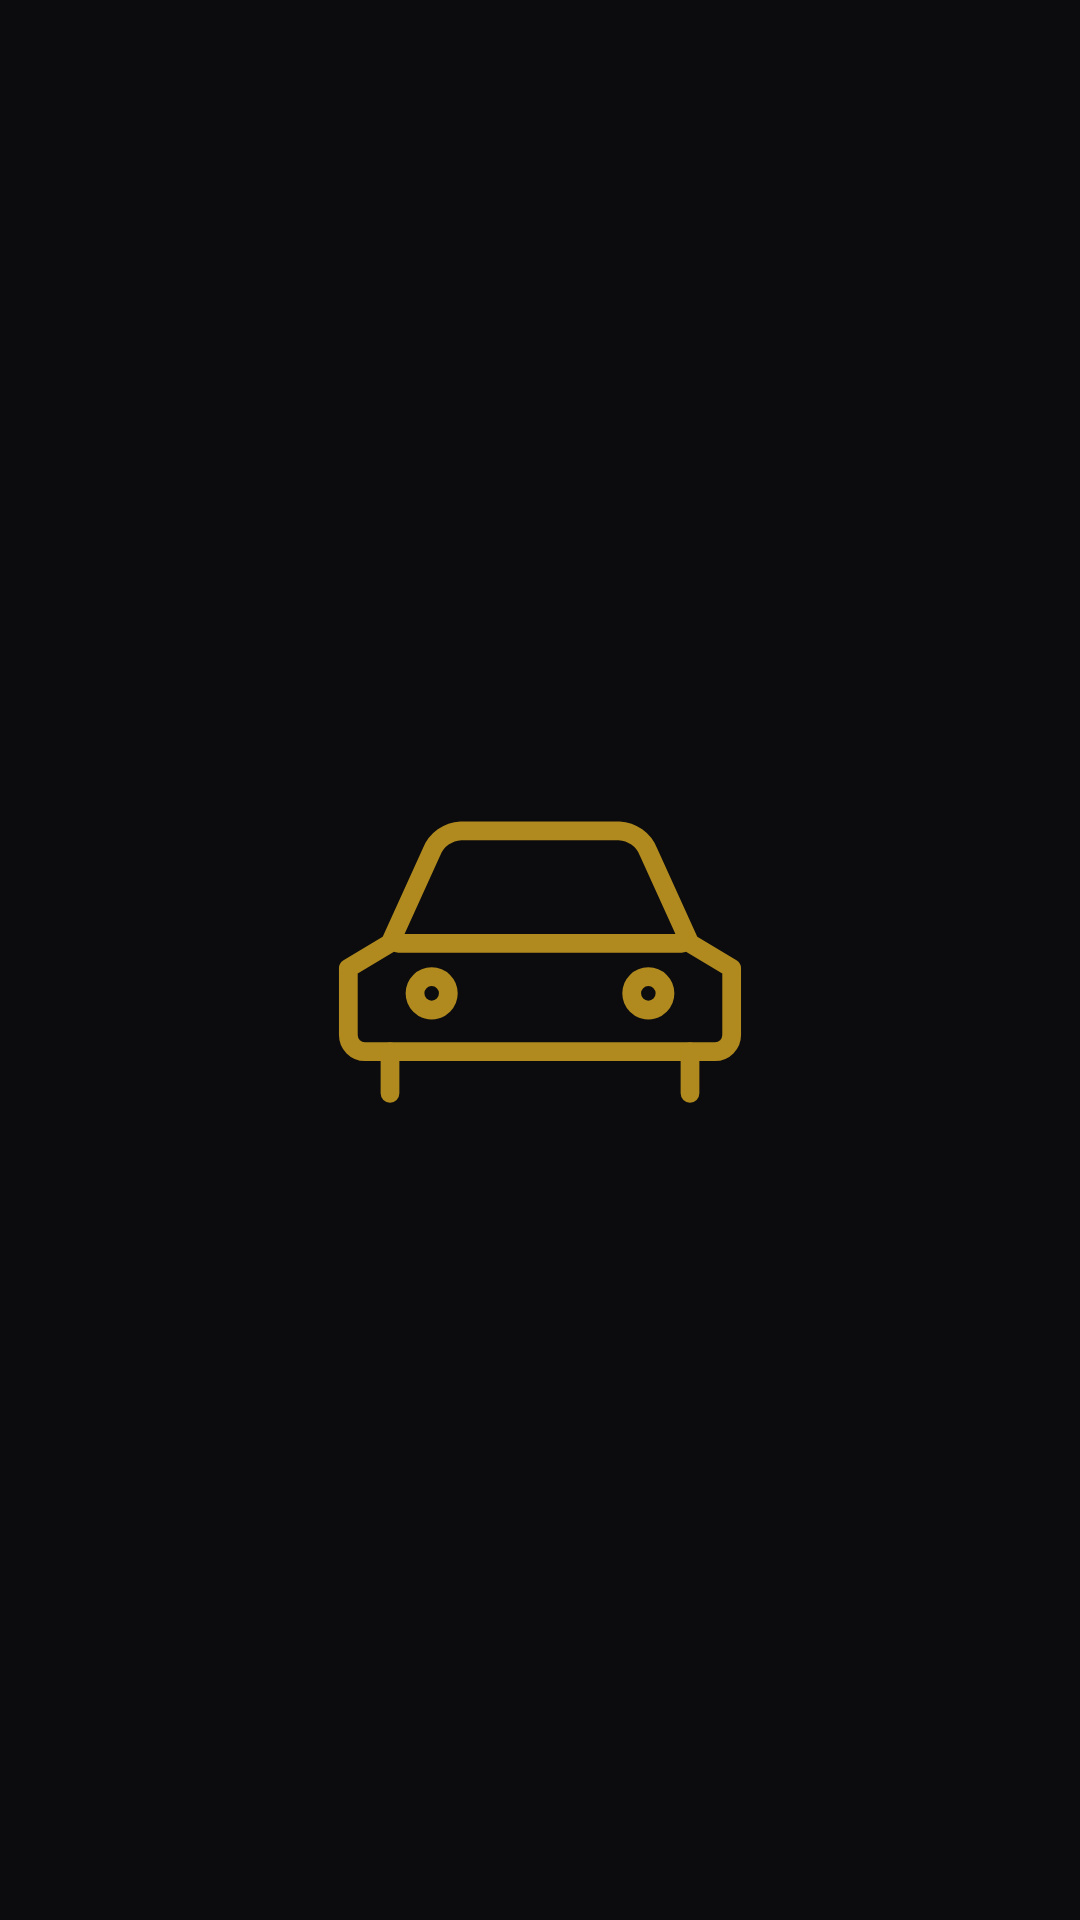
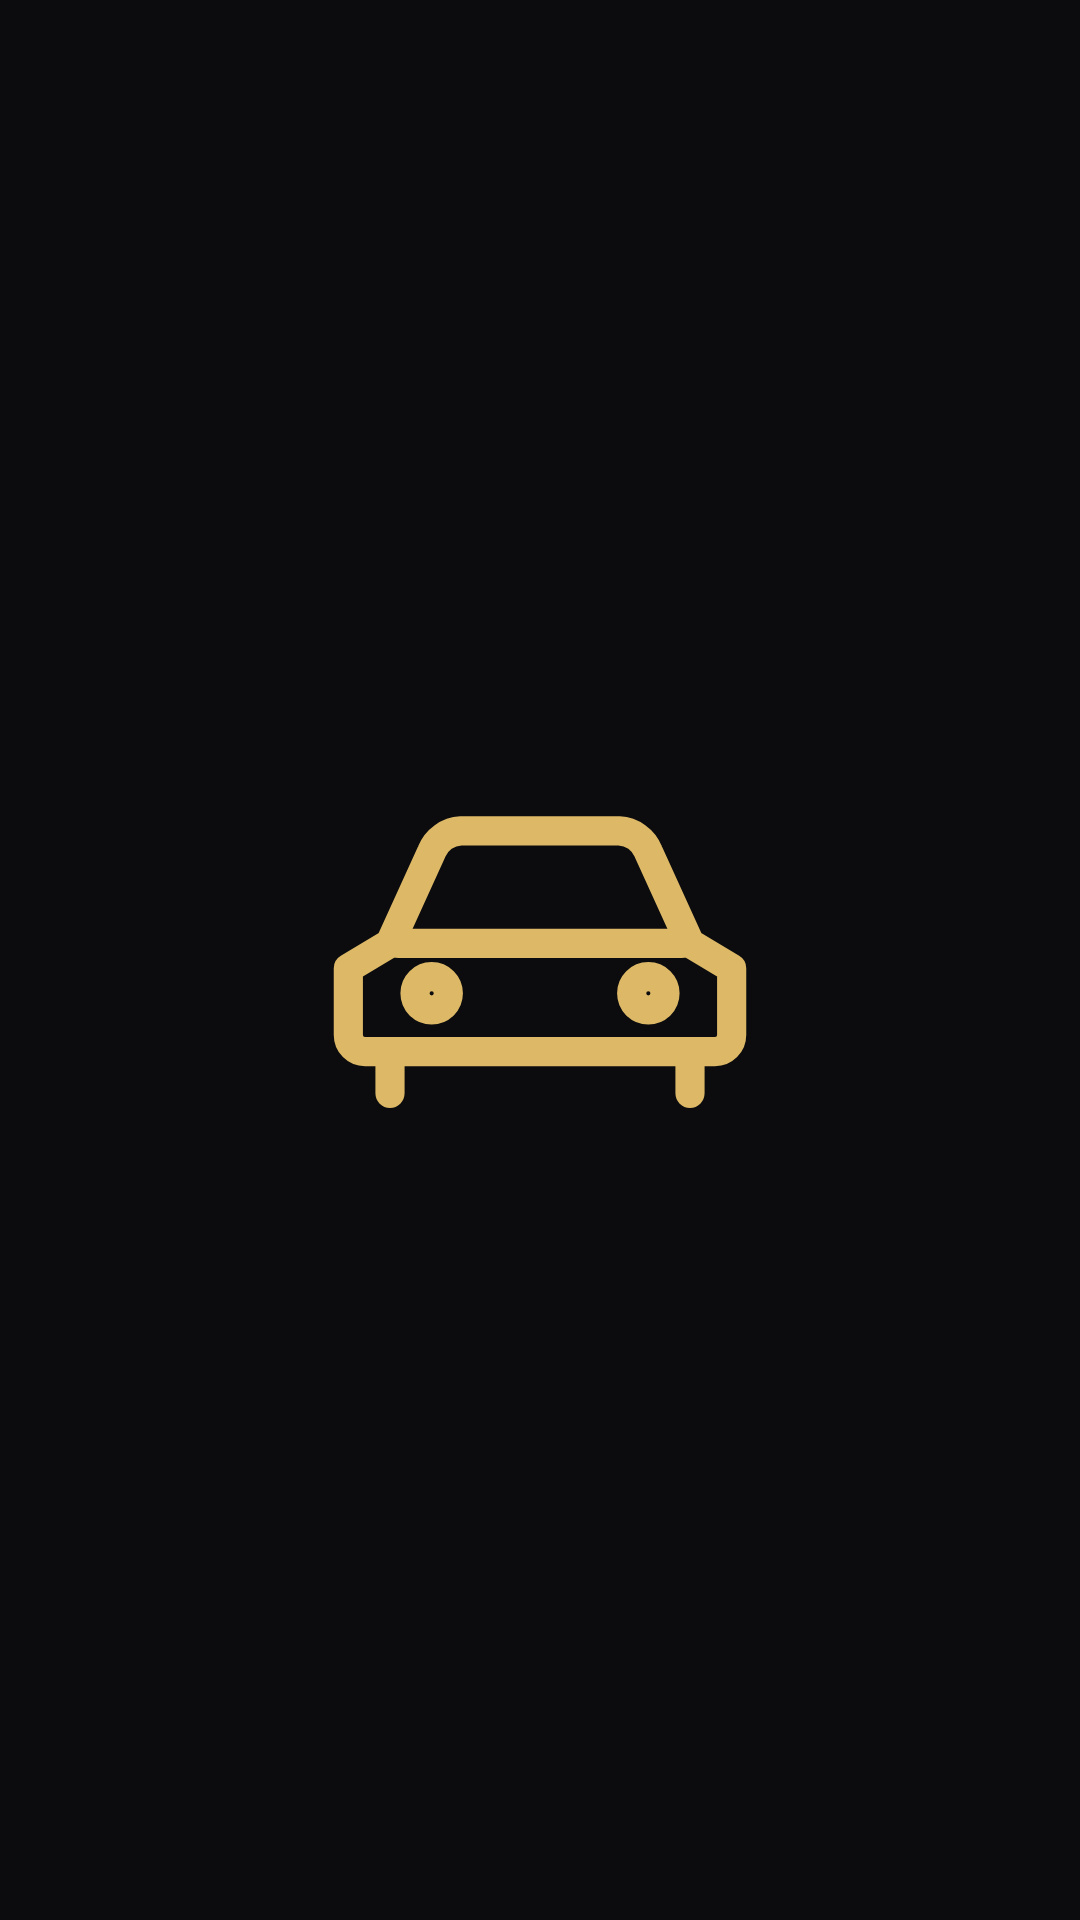
Highlight covers: thicker strokes, brighter gold (owner feedback 12 Nov)
Claude-Session: https://claude.ai/code/session_01VxexnmKetKSqwjuaeHxS81

Changed region(s): [[0.3056, 0.4062, 0.7028, 0.5938]]

diff --git a/templates/highlights/c_gen.py b/templates/highlights/c_gen.py
@@ -1,13 +1,13 @@
 import asyncio
 from playwright.async_api import async_playwright
-G="#B08A1E"
-S=f'fill="none" stroke="{G}" stroke-width="4.5" stroke-linecap="round" stroke-linejoin="round"'
-S2=S.replace('stroke-width="4.5"','stroke-width="3.9"')
+G="#DDB967"
+S=f'fill="none" stroke="{G}" stroke-width="7" stroke-linecap="round" stroke-linejoin="round"'
+S2=S.replace('stroke-width="7"','stroke-width="6"')
 icons={
 "howto":f'<rect x="18" y="26" width="84" height="76" rx="6" {S}/><path d="M18 48h84M40 16v20M80 16v20M44 76l12 12 22-24" {S}/>',
 "reviews":f'<path d="M60 14l14.1 28.6 31.6 4.6-22.9 22.3 5.4 31.4L60 86.1 31.8 100.9l5.4-31.4L14.3 47.2l31.6-4.6z" {S}/>',
 "delivery":f'<path d="M60 108S24 74 24 48a36 36 0 0 1 72 0c0 26-36 60-36 60z" {S}/><circle cx="60" cy="48" r="13" {S}/>',
-"faq":f'<circle cx="60" cy="60" r="46" {S}/><path d="M45 47a15 15 0 1 1 22 13c-5 3-7 6-7 12" {S}/><circle cx="60" cy="87" r="2.5" fill="{G}" stroke="{G}"/>',
+"faq":f'<circle cx="60" cy="60" r="46" {S}/><path d="M45 47a15 15 0 1 1 22 13c-5 3-7 6-7 12" {S}/><circle cx="60" cy="87" r="4" fill="{G}" stroke="{G}"/>',
 "fleet":f'<path d="M14 78V62l10-6 10-22a8 8 0 0 1 7-5h38a8 8 0 0 1 7 5l10 22 10 6v16a4 4 0 0 1-4 4H18a4 4 0 0 1-4-4z" {S}/><path d="M26 56h68M24 82v10M96 82v10" {S}/><circle cx="34" cy="68" r="4" {S}/><circle cx="86" cy="68" r="4" {S}/>',
 "brands":f'<g transform="rotate(-45 60 60) translate(-9 -9) scale(1.15)"><path d="M26 36h18c8 0 14 6 14 14v20c0 8-6 14-14 14H26c-9 0-16-7-16-16V52c0-9 7-16 16-16z" {S2}/><rect x="19" y="52" width="9" height="16" rx="4.5" {S2}/><path d="M58 52h44l9 8-9 8H58" {S2}/><path d="M66 60h30" {S2}/></g>',
 }
